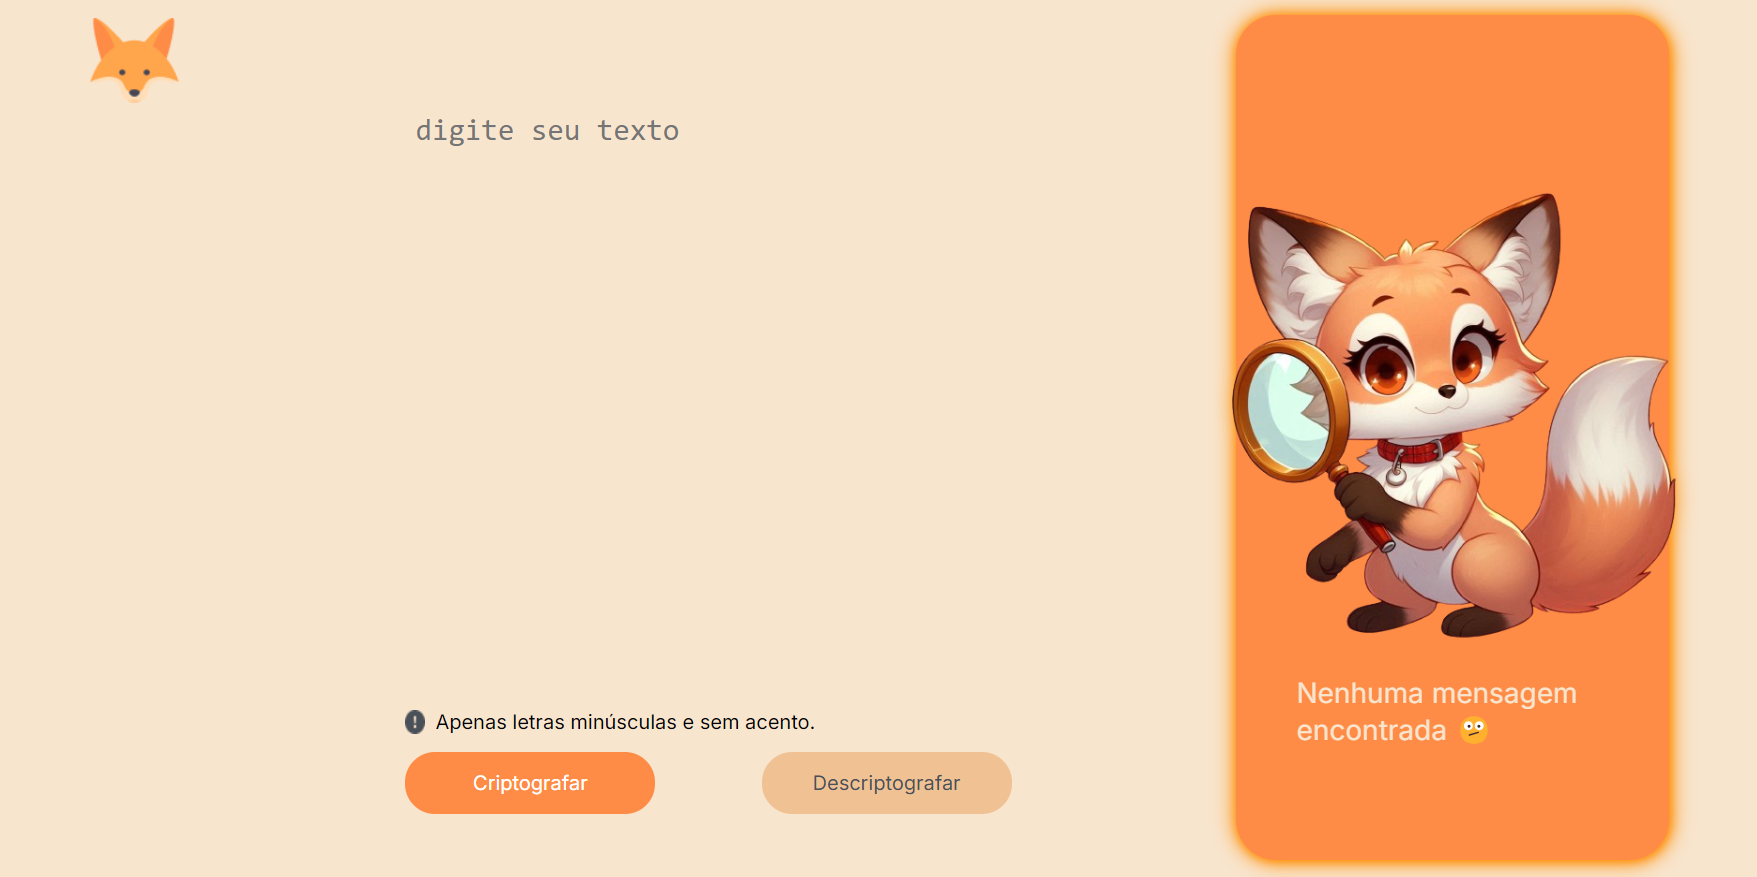
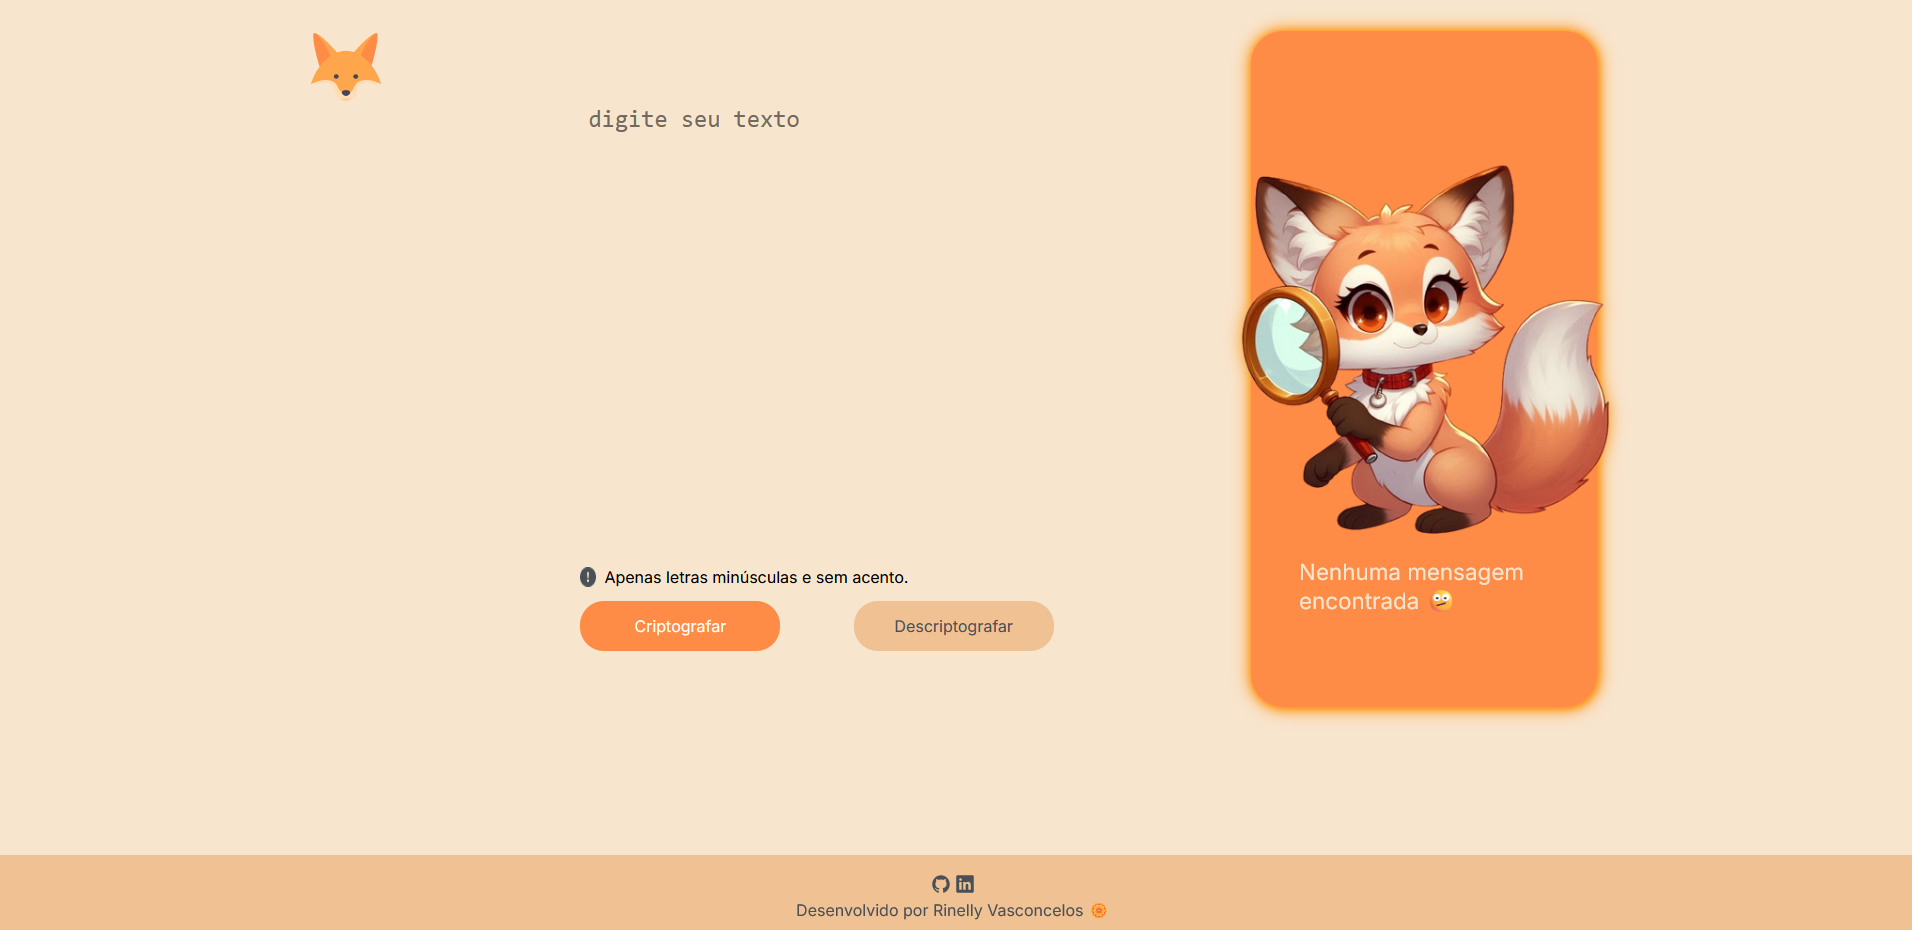
Ajustes no CSS e alteração do print do decoder fox.

diff --git a/style.css b/style.css
@@ -13,7 +13,9 @@
 }
 
 body {
-    height: 100%;
+    display: flex;
+    flex-direction: column;
+    height: 100vh;
     background-color: #F8E5CE;
     font-family: "Inter", sans-serif;
     box-sizing: border-box;
@@ -148,7 +150,7 @@ h3 {
     gap: 1%;
     margin-top: 3%;
     background-color: var(--cor-footer);
-    width: 100%;
+    height: 50px;
 }
 
 a {
@@ -168,13 +170,13 @@ h4 {
     font-weight: 400; 
 }
 
-@media (max-width: 1200px) { 
+@media screen and (max-width: 1200px) { 
     
-   .logo {
-    margin: 10% 10%;
-        
-   }
-
+    .logo {
+        margin: 10% 10%;
+            
+    }
+    
     main {
         display: flex;
         flex-direction: column;
